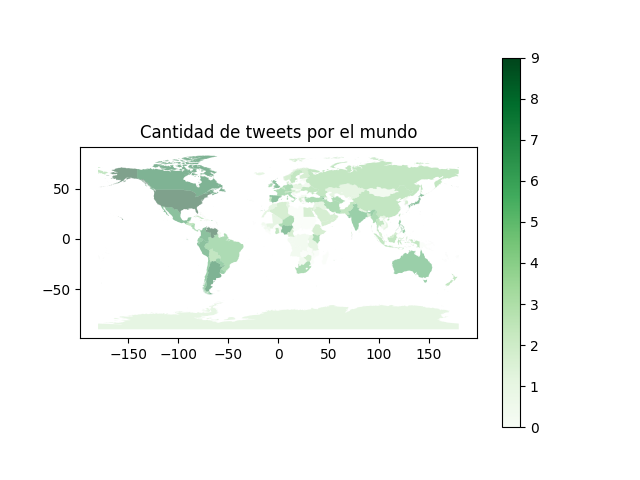
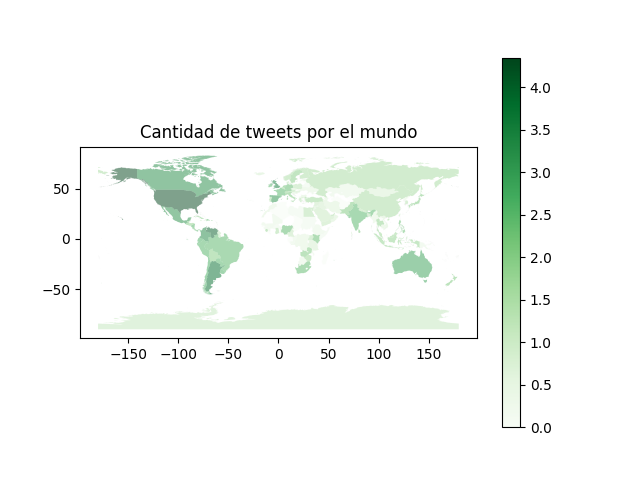
ajustes generales para correr en ambas maquinas, uso de aggregate en TweetsPorPais y NubeDePalabras

diff --git a/ejercicio3.4/NubeDePalabras.py b/ejercicio3.4/NubeDePalabras.py
@@ -1,7 +1,6 @@
 import psycopg2
 from matplotlib import pyplot as plt
 from pymongo import MongoClient
-from collections import Counter
 from wordcloud import WordCloud
 
 #constantes
@@ -9,93 +8,50 @@ MONGO_HOST = "localhost"
 MONGO_PUERTO = 27017
 MONGO_DB_NOMBRE = "test"
 MONGO_COLLECTION_NOMBRE = "tweets"
-POSTGRESQL_DB_NOMBRE = "world"
-POSTGRESQL_USER = "postgres"
-POSTGRESQL_PASSWORD = "postgres"
-POSTGRESQL_HOST = "localhost"
 
 #Mongo conexion
 client = MongoClient(MONGO_HOST, MONGO_PUERTO)
 
+#db y collection
 database = client[MONGO_DB_NOMBRE]
 collection = database[MONGO_COLLECTION_NOMBRE]
 
-#postgresql conexion
-try:
-    conexion = psycopg2.connect(
-            database = POSTGRESQL_DB_NOMBRE,
-            user = POSTGRESQL_USER,
-            password = POSTGRESQL_PASSWORD,
-            host = POSTGRESQL_HOST)
-
-    #apuntador para crear diccionario Codigo/Ciudad:
-    apuntador = conexion.cursor()
-
-    #queryAPostgresql
-    queryCountry = "SELECT CODE, NAME FROM COUNTRY"
-
-    #query
-    apuntador.execute(queryCountry)
-    listaCodigoNombrePais = apuntador.fetchall()
-
-    #diccionario
-    diccionarioCodigoNombrePais = {}
-
-    for (codigo, nombrePais) in listaCodigoNombrePais:
-        diccionarioCodigoNombrePais[nombrePais] = codigo
-
-# excepcion por algun error
-except (Exception, psycopg2.Error) as error:
-    print("Error al obtener la informacion", error)
-
-# cerrar conexion
-finally:
-    if conexion:
-        conexion.close()
-        apuntador.close()
-        print("Conexion con PostgreSQL cerrada")
-
 #elegir 2 paises:
-PAIS_1_NAME = "Argentina"
-PAIS_2_NAME = "United States"
-PAIS_1_COD = diccionarioCodigoNombrePais[PAIS_1_NAME]
-PAIS_2_COD = diccionarioCodigoNombrePais[PAIS_2_NAME]
-LAS_20_MAS_USADAS = 20
+PAIS_1_COD = "ARG"
+PAIS_2_COD = "USA"
 
-listaDePalabrasPrimerPais = []
-listaDePalabrasSegundoPais = []
+LAS_20_MAS_USADAS = 20
+diccionarioPalabrasPrimerPais = {}
+diccionarioPalabrasSegundoPais = {}
 
 #query primer pais
-consultaPrimerPais = collection.find({
-    "$or": [{"user.country": {"$eq": PAIS_1_NAME}}, {"user.country": {"$eq": PAIS_1_COD}}]},
-     {'_id': 0, 'text': 1})
+consultaMapReducePrimerPais = collection.aggregate([
+    { "$match": {"user.country": {"$eq": PAIS_1_COD}}},
+    { "$project" : { "text" : { "$split": ["$text", " "] } } },
+    { "$unwind" : "$text" },
+    { "$group" : { "_id":  "$text" , "cantidad" : { "$sum" : 1 } } },
+    { "$sort" : { "cantidad" : -1 } }
+])
 
 #query segundo pais
-consultaSegundoPais = collection.find({
-    "$or": [{"user.country": {"$eq": PAIS_2_NAME}}, {"user.country": {"$eq": PAIS_2_COD}}]},
-     {'_id': 0, 'text': 1})
-
+consultaMapReduceSegundoPais = collection.aggregate([
+    { "$match": {"user.country": {"$eq": PAIS_2_COD}}},
+    { "$project" : { "text" : { "$split": ["$text", " "] } } },
+    { "$unwind" : "$text" },
+    { "$group" : { "_id":  "$text" , "cantidad" : { "$sum" : 1 } } },
+    { "$sort" : { "cantidad" : -1 } }
+])
 
 #palabras a lista
-for tweet in consultaPrimerPais:
-    linea = tweet["text"].strip()
-    palabras = linea.split()
-    for palabra in palabras:
-        listaDePalabrasPrimerPais.append(palabra)
+for elemento in consultaMapReducePrimerPais:
+    diccionarioPalabrasPrimerPais[elemento["_id"]] = elemento["cantidad"]
 
-for tweet in consultaSegundoPais:
-    linea = tweet["text"].strip()
-    palabras = linea.split()
-    for palabra in palabras:
-        listaDePalabrasSegundoPais.append(palabra)
-
-#contar palabras
-contadorDePalabrasPrimerPais = Counter(listaDePalabrasPrimerPais)
-contadorDePalabrasSegundoPais = Counter(listaDePalabrasSegundoPais)
+for elemento in consultaMapReduceSegundoPais:
+    diccionarioPalabrasSegundoPais[elemento["_id"]] = elemento["cantidad"]
 
 #las 20 mas usadas
-lasMasUsadasDelPrimerPais = contadorDePalabrasPrimerPais.most_common(LAS_20_MAS_USADAS)
-lasMasUsadasDelSegundoPais = contadorDePalabrasSegundoPais.most_common(LAS_20_MAS_USADAS)
+lasMasUsadasDelPrimerPais = list(diccionarioPalabrasPrimerPais.items())[:LAS_20_MAS_USADAS]
+lasMasUsadasDelSegundoPais = list(diccionarioPalabrasSegundoPais.items())[:LAS_20_MAS_USADAS]
 
 #crear y mostrar nubes
 nubeDePalabrasPrimerPais = WordCloud(
@@ -113,13 +69,13 @@ nubeDePalabrasPrimerPais.generate_from_frequencies(dict(lasMasUsadasDelPrimerPai
 nubeDePalabrasSegundoPais.generate_from_frequencies(dict(lasMasUsadasDelSegundoPais))
 
 #imagenes
-plt.figure(PAIS_1_NAME, figsize=(9, 6))
-plt.title(PAIS_1_NAME)
+plt.figure(PAIS_1_COD, figsize=(9, 6))
+plt.title(PAIS_1_COD)
 plt.imshow(nubeDePalabrasPrimerPais)
 plt.axis('off')
 
-plt.figure(PAIS_2_NAME, figsize=(9, 6))
-plt.title(PAIS_2_NAME)
+plt.figure(PAIS_2_COD, figsize=(9, 6))
+plt.title(PAIS_2_COD)
 plt.imshow(nubeDePalabrasSegundoPais)
 plt.axis('off')
 

diff --git a/ejercicio3.4/TweetsPorPais.py b/ejercicio3.4/TweetsPorPais.py
@@ -1,9 +1,7 @@
-import numpy as np
-import psycopg2
+import math
 import pandas as pd
 import geopandas as gpd
 from pymongo import MongoClient
-from collections import Counter
 import matplotlib.pyplot as plt
 
 #constantes
@@ -11,100 +9,57 @@ MONGO_HOST = "localhost"
 MONGO_PUERTO = 27017
 MONGO_DB_NOMBRE = "test"
 MONGO_COLLECTION_NOMBRE = "tweets"
-POSTGRESQL_DB_NOMBRE = "world"
-POSTGRESQL_USER = "postgres"
-POSTGRESQL_PASSWORD = "postgres"
-POSTGRESQL_HOST = "localhost"
-DESCONOCIDO = "Unknown"
+UNKNOWN = "unknown"
 
 PATH_WORLD = r'.\world\ne_10m_admin_0_countries.shp'
 
 #Mongo conexion
 client = MongoClient(MONGO_HOST, MONGO_PUERTO)
 
+#db y collection
 database = client[MONGO_DB_NOMBRE]
 collection = database[MONGO_COLLECTION_NOMBRE]
-
-#postgresql conexion
-try:
-    conexion = psycopg2.connect(
-            database = POSTGRESQL_DB_NOMBRE,
-            user = POSTGRESQL_USER,
-            password = POSTGRESQL_PASSWORD,
-            host = POSTGRESQL_HOST)
-
-    #apuntador para crear diccionario Codigo/Ciudad:
-    apuntador = conexion.cursor()
-
-    #queryAPostgresql
-    queryCountry = "SELECT CODE, NAME FROM COUNTRY"
-
-    #query
-    apuntador.execute(queryCountry)
-    listaCodigoNombrePais = apuntador.fetchall()
-
-    #diccionario
-    diccionarioCodigoNombrePais = {}
-
-    for (codigo, nombrePais) in listaCodigoNombrePais:
-        diccionarioCodigoNombrePais[nombrePais] = codigo
-
-# excepcion por algun error
-except (Exception, psycopg2.Error) as error:
-    print("Error al obtener la informacion", error)
-
-# cerrar conexion
-finally:
-    if conexion:
-        conexion.close()
-        apuntador.close()
-        print("Conexion con PostgreSQL cerrada")
 
 #Punto2: geopandas dataframe (mapas de vuelta) y renombrar
 gpdworld = gpd.read_file(PATH_WORLD).rename(columns = {'ADM0_A3': 'code'})
 
-#sobre el punto anterior:
-#los tweets que tenian el pais, van a tener el nombre de pais en el lugar de su codigo de pais
-#este archivo modifica los nombres de pais por codigo de pais en el dataframe para que todos sean iguales en el mapa:
+#query solo tweets que tengan el campo user.country y no sean desconocidos
+consulta = collection.aggregate([
+    {
+        "$match":
+            {
+                "user.country": {"$exists": "true", "$ne": UNKNOWN}
+            }
+    },
+    {
+        "$group":
+            {
+                "_id": "$user.country",
+                "cantidadDeTweets": { "$sum":  1  }
+            }
+    }
+])
 
-listaDePaises = []
-
-#query solo tweets que tengan user.country y que no sean de paises desconocidos
-consulta = collection.find({
-    "user.country": {"$exists": "true", "$ne": DESCONOCIDO}},
-    {'_id': 0, 'user.country': 1})
-
-#agrega codigos de paises y nombre de paises a lista
+#pasar a diccionario
+contadorDeTweets = {}
 for elemento in consulta:
-    listaDePaises.append(elemento["user"]["country"])
+    contadorDeTweets[elemento["_id"]] = elemento["cantidadDeTweets"]
 
-#si es un nombre de pais lo modifica por codigo de pais
-for indice, elemento in enumerate(listaDePaises):
-    if elemento in diccionarioCodigoNombrePais:
-        listaDePaises[indice] = diccionarioCodigoNombrePais[elemento]
-
-#counter de tweets por pais
-contadorDeTweets = Counter(listaDePaises)
+#aplicar logaritmo:
+diccionarioContadorLog = {codigo : math.log10(cantidadDeTweets) for codigo, cantidadDeTweets in contadorDeTweets.items()}
 
 #dataframe pais, cantidadtweets
-dfCantidadTweets = pd.DataFrame.from_dict(contadorDeTweets, orient='index').reset_index()
+dfCantidadTweets = pd.DataFrame.from_dict(diccionarioContadorLog, orient='index').reset_index()
 
 #renombre
 indicesDataframePais = {'index': 'code', 0: 'cantidadDeTweets'}
 dfCantidadTweets = dfCantidadTweets.rename(columns = indicesDataframePais)
-
 
 #merge, tweets y gpdworld
 dataFrameDeTweetsMundial = pd.merge(
     gpdworld, dfCantidadTweets,
     on = 'code', how = 'inner'
 )
-
-#aplicar logaritmo para resultado mas claro
-dataFrameDeTweetsMundial.cantidadDeTweets = np.log(
-    dataFrameDeTweetsMundial.cantidadDeTweets,
-    out = np.zeros_like(dataFrameDeTweetsMundial.cantidadDeTweets),
-    where = (dataFrameDeTweetsMundial.cantidadDeTweets != 0))
 
 #mapas:
 tweetsMundial = dataFrameDeTweetsMundial.plot(

diff --git a/ejercicio3.4/ApuntadorReducido.py b/ejercicio3.4/ApuntadorReducido.py
@@ -166,7 +166,7 @@ for document in collection.find({},{'_id': 1, 'user.location': 1}):
     filtro = {'_id': document['_id']}
     PAIS_NOMBRE = 'paisNombre'
     if locationEstaVacio(document):
-        collection.update_one(filtro, nuevoValor(DESCONOCIDO))
+        #collection.update_one(filtro, nuevoValor(DESCONOCIDO))
         contadorUserLocationVacio += 1
     else:
         coincidenciaPorPais = False
@@ -175,7 +175,7 @@ for document in collection.find({},{'_id': 1, 'user.location': 1}):
         esListaDeCiudades = False
         for elemento in dfWorldCountry[PAIS_NOMBRE]:
             if (compararStringSimilar(document, elemento, esListaDeCiudades)):
-                collection.update_one(filtro, nuevoValor(elemento))
+                #collection.update_one(filtro, nuevoValor(elemento))
                 coincidenciaPorPais = True
                 contadorCoincidenciaPorPais += 1
                 break
@@ -183,7 +183,7 @@ for document in collection.find({},{'_id': 1, 'user.location': 1}):
             esListaDeCiudades = True
             for (codigoPais, listaDeCiudades) in diccionarioCodigoCiudadNombre.items():
                 if(compararStringSimilarLista(document, listaDeCiudades, esListaDeCiudades)):
-                    collection.update_one(filtro, nuevoValor(codigoPais))
+                    #collection.update_one(filtro, nuevoValor(codigoPais))
                     coincidenciaPorCiudad = True
                     contadorCoincidenciaPorCiudad += 1
                     break
@@ -191,7 +191,7 @@ for document in collection.find({},{'_id': 1, 'user.location': 1}):
             esListaDeCiudades = False
             for (codigoPais, listaDeDistritos) in diccionarioCodigoDistrito.items():
                 if(compararStringSimilarLista(document, listaDeDistritos, esListaDeCiudades)):
-                    collection.update_one(filtro, nuevoValor(codigoPais))
+                    #collection.update_one(filtro, nuevoValor(codigoPais))
                     coincidenciaPorDistrito = True
                     contadorCoincidenciaPorDistrito += 1
                     break

diff --git a/ejercicio3.4/4.2.py b/ejercicio3.4/4.2.py
@@ -6,12 +6,12 @@ from pymongo import MongoClient
 import math
 
 #constantes
-RUTA_ARCHIVO = r'.\ne_10m_admin_0_countries.shp'
+RUTA_ARCHIVO = r'.\world\ne_10m_admin_0_countries.shp'
 MONGO_HOST = "localhost"
 MONGO_PUERTO = 27017
 MONGO_DB_NOMBRE = "test"
-MONGO_COLLECTION_NOMBRE = "tweets_by_country_result"
-
+#MONGO_COLLECTION_NOMBRE = "tweets_by_country_result"
+MONGO_COLLECTION_NOMBRE = "tweets"
 gpdworld = gpd.read_file(RUTA_ARCHIVO).rename(columns = {'ADM0_A3': 'code'})
 
 #Mongo conexion
@@ -22,7 +22,8 @@ try:
 except:
     print("Could not connect to MongoDB")
 
-cursor = collection.find({'value': {"$ne":"Unknown"}})
+#cursor = collection.find({'value': {"$ne":"Unknown"}})
+cursor = collection.find({'user.country': {"$ne":"Unknown"}},{"_id": 1, "user.country":1})
 df = pd.DataFrame(list(cursor)).rename(columns={'_id': 'code'})
 df['value'] = df['value'].apply(lambda x: math.log10(x))
 

diff --git a/ejercicio3.4/4.1.py b/ejercicio3.4/4.1.py
@@ -22,6 +22,7 @@ MONGO_COLLECTION_NOMBRE = "tweets"
 POSTGRESQL_DB_NOMBRE = "world"
 POSTGRESQL_USER = "postgres"
 POSTGRESQL_PASSWORD = "123456"
+#POSTGRESQL_PASSWORD = "postgres"
 POSTGRESQL_HOST = "localhost"
 UNKNOWN = "unknown"
 NONE = "none"
@@ -163,4 +164,3 @@ for tweet in collection.find({'user.location': {"$ne":None}}, {'_id': 1, 'user.l
 
 
 print("\nFin del proceso")
-
